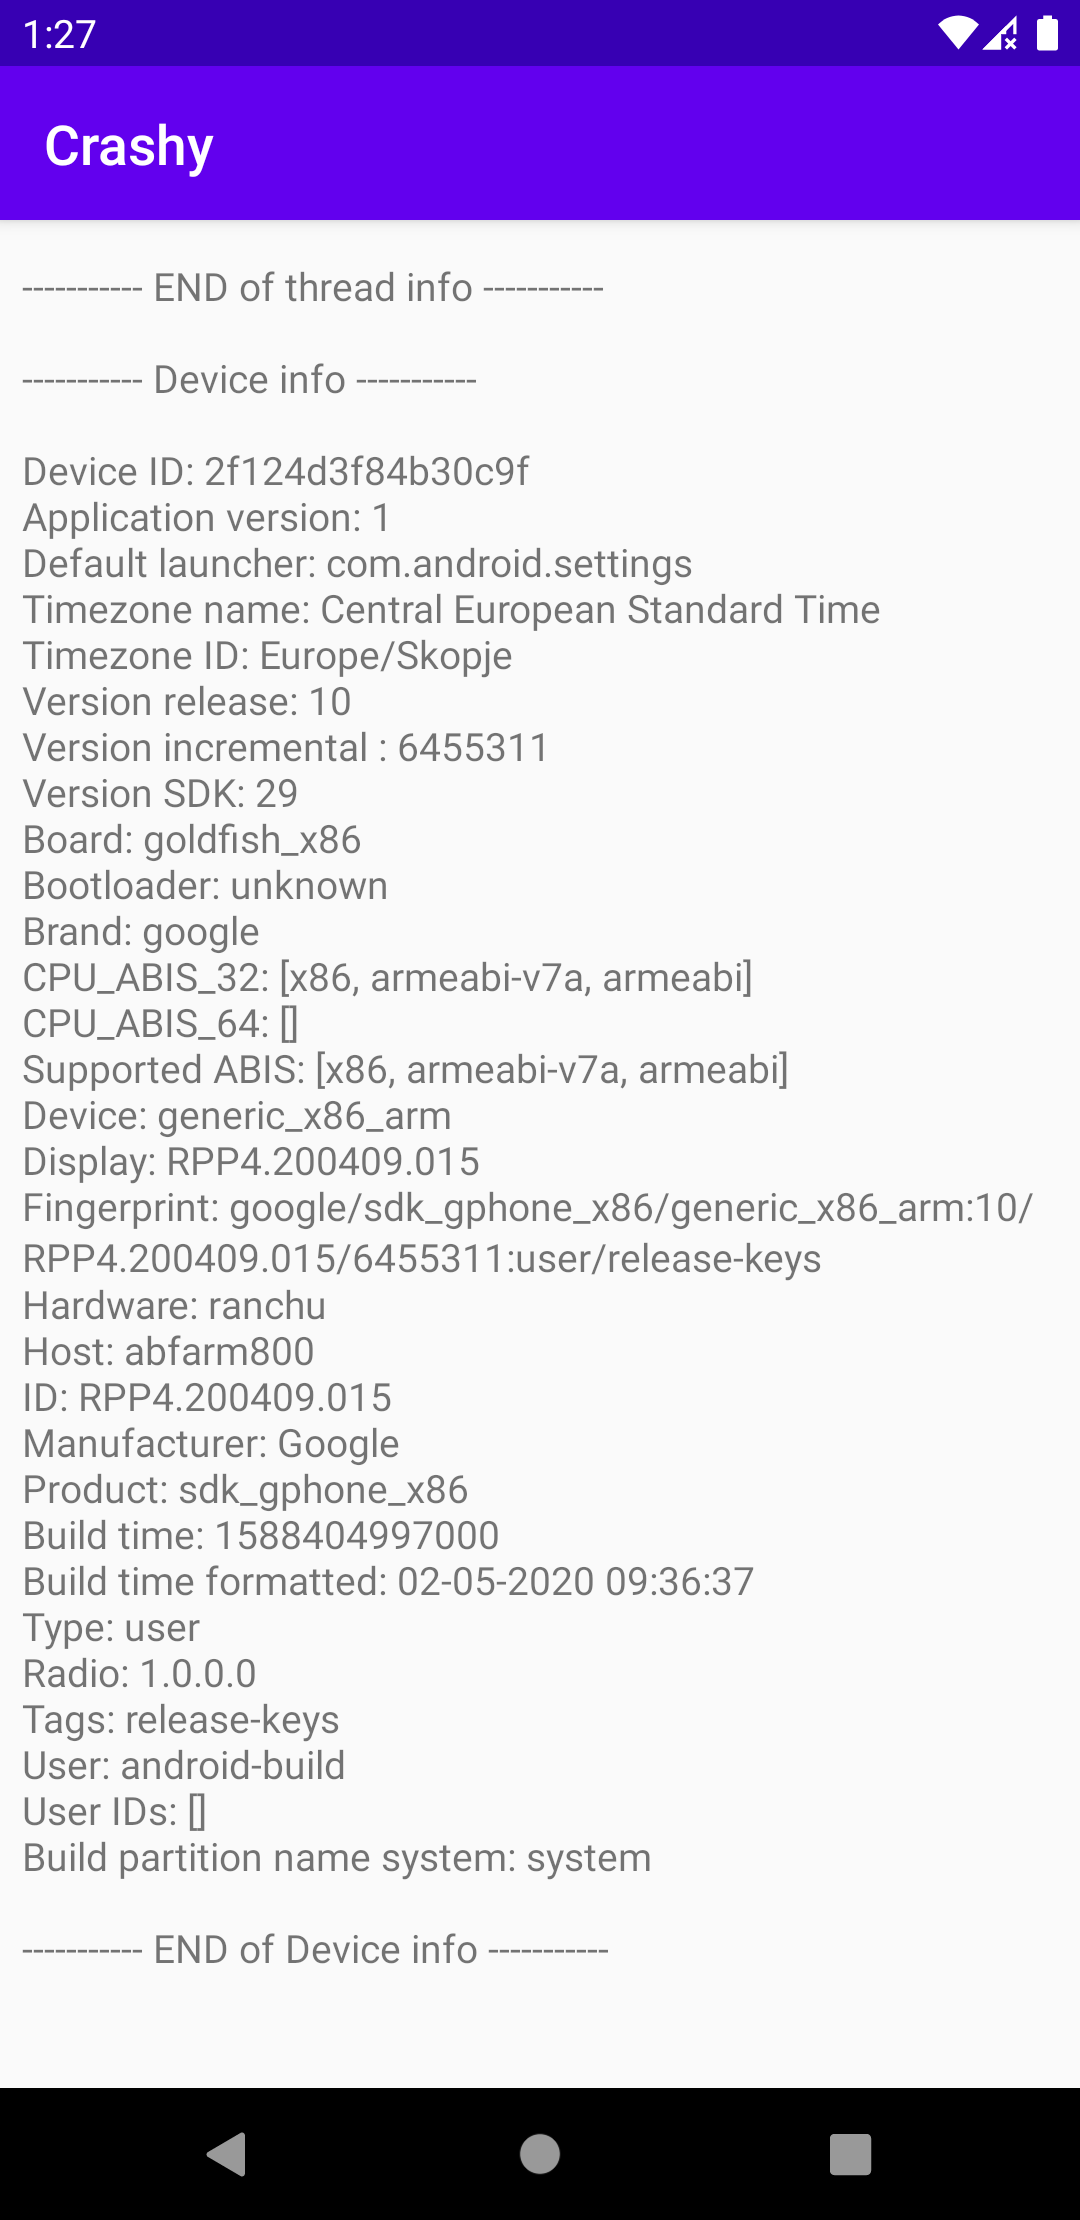
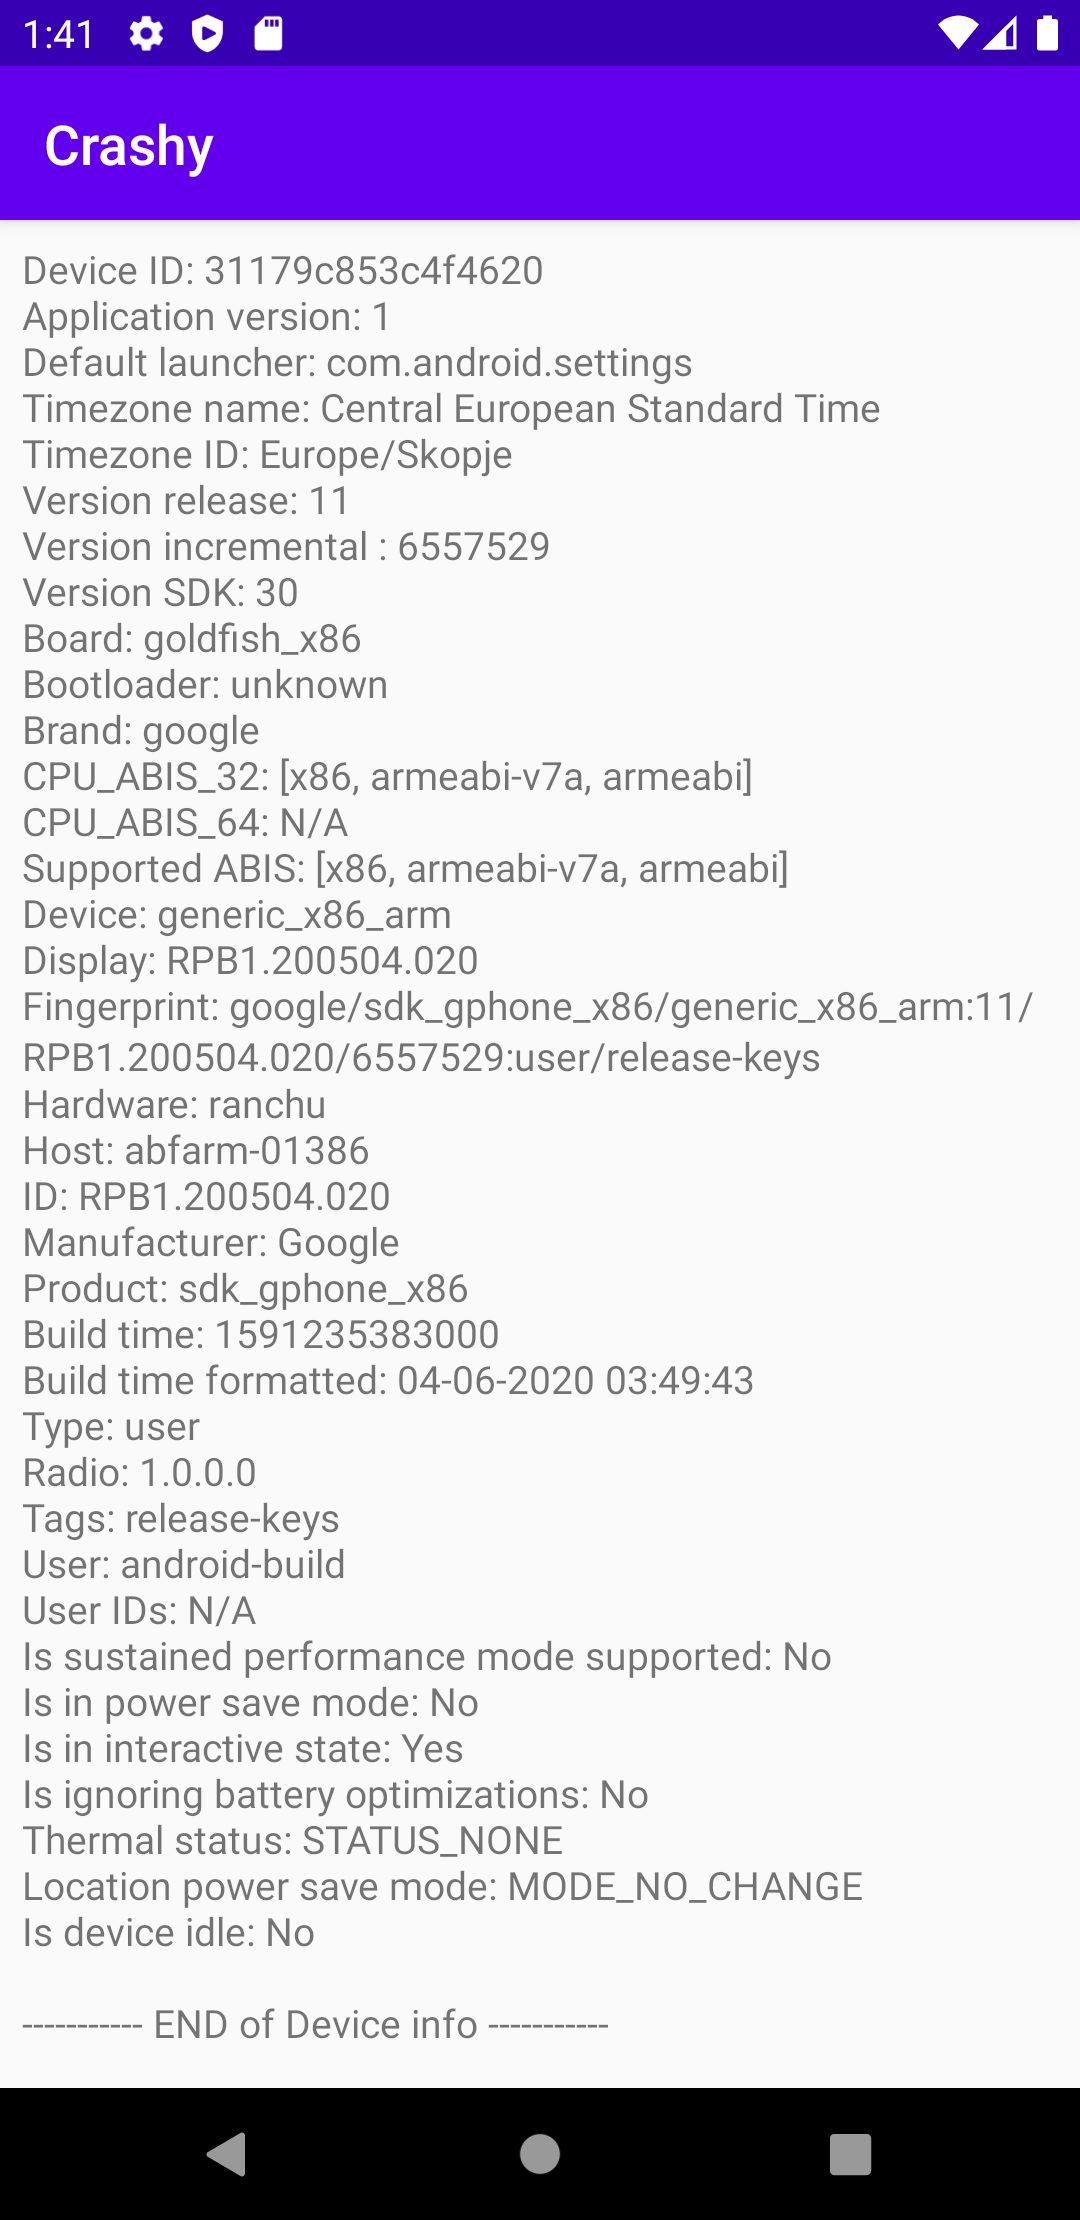
feature: added more information about thermals, exit reasons etc...

diff --git a/crashyreporter/src/main/java/com/crazylegend/crashyreporter/extensions/ExtensionFunctions.kt b/crashyreporter/src/main/java/com/crazylegend/crashyreporter/extensions/ExtensionFunctions.kt
@@ -1,0 +1,165 @@
+package com.crazylegend.crashyreporter.extensions
+
+import android.app.ActivityManager
+import android.app.ActivityManager.RunningAppProcessInfo.*
+import android.app.ApplicationExitInfo.*
+import android.content.Context
+import android.os.Build
+import android.os.PowerManager
+import android.os.PowerManager.*
+import androidx.annotation.RequiresApi
+import com.crazylegend.crashyreporter.CrashyReporter
+import java.util.*
+
+
+/**
+ * Created by crazy on 6/21/20 to long live and prosper !
+ */
+
+internal data class AppDeathInfo(
+        val description: String?,
+        val importance: String,
+        val reason: String,
+        val timestamp: String
+)
+
+private inline val Context.powerManager
+    get() = getSystemService(Context.POWER_SERVICE) as PowerManager?
+
+private inline val Context.activityManager: ActivityManager
+    get() = getSystemService(Context.ACTIVITY_SERVICE) as ActivityManager
+
+internal val Context.isSustainedPerformanceModeSupported
+    get() = if (Build.VERSION.SDK_INT >= Build.VERSION_CODES.N) {
+        powerManager?.isSustainedPerformanceModeSupported.booleanAsYesOrNo()
+    } else {
+        notAvailableString
+    }
+
+internal val Context.isInPowerSaveMode
+    get() = powerManager?.isPowerSaveMode.booleanAsYesOrNo()
+
+internal val Context.isInInteractiveState
+    get() = powerManager?.isInteractive.booleanAsYesOrNo()
+
+internal val Context.isIgnoringBatteryOptimization
+    get() = if (Build.VERSION.SDK_INT >= Build.VERSION_CODES.M) {
+        powerManager?.isIgnoringBatteryOptimizations(packageName).booleanAsYesOrNo()
+    } else {
+        notAvailableString
+    }
+
+private fun Boolean?.booleanAsYesOrNo() =
+        when (this) {
+            true -> "Yes"
+            false -> "No"
+            null -> notAvailableString
+        }
+
+
+/**
+ *  THERMAL_STATUS_NONE if device in not under thermal throttling. Value is
+ *  THERMAL_STATUS_NONE, THERMAL_STATUS_LIGHT,
+ *  THERMAL_STATUS_MODERATE, THERMAL_STATUS_SEVERE, THERMAL_STATUS_CRITICAL, THERMAL_STATUS_EMERGENCY, or THERMAL_STATUS_SHUTDOWN
+ */
+internal val Context.getThermalStatus: String
+    @RequiresApi(Build.VERSION_CODES.Q)
+    get() {
+        return when (powerManager?.currentThermalStatus) {
+            THERMAL_STATUS_NONE -> "STATUS_NONE"
+            THERMAL_STATUS_LIGHT -> "STATUS_LIGHT"
+            THERMAL_STATUS_MODERATE -> "STATUS_MODERATE"
+            THERMAL_STATUS_SEVERE -> "STATUS_SEVERE"
+            THERMAL_STATUS_CRITICAL -> "STATUS_CRITICAL"
+            THERMAL_STATUS_EMERGENCY -> "STATUS_EMERGENCY"
+            THERMAL_STATUS_SHUTDOWN -> "STATUS_SHUTDOWN"
+
+            else -> notAvailableString
+        }
+    }
+
+/**
+ * 	Value is LOCATION_MODE_NO_CHANGE, LOCATION_MODE_GPS_DISABLED_WHEN_SCREEN_OFF,
+ * 	LOCATION_MODE_ALL_DISABLED_WHEN_SCREEN_OFF,
+ * 	LOCATION_MODE_FOREGROUND_ONLY, or LOCATION_MODE_THROTTLE_REQUESTS_WHEN_SCREEN_OFF
+ */
+internal val Context.locationPowerSaveMode: String
+    get() {
+
+        return if (Build.VERSION.SDK_INT >= Build.VERSION_CODES.P) {
+            when (powerManager?.locationPowerSaveMode) {
+                LOCATION_MODE_NO_CHANGE -> "MODE_NO_CHANGE"
+                LOCATION_MODE_GPS_DISABLED_WHEN_SCREEN_OFF -> "MODE_GPS_DISABLED_WHEN_SCREEN_OFF"
+                LOCATION_MODE_ALL_DISABLED_WHEN_SCREEN_OFF -> "MODE_ALL_DISABLED_WHEN_SCREEN_OFF"
+                LOCATION_MODE_FOREGROUND_ONLY -> "MODE_FOREGROUND_ONLY"
+                LOCATION_MODE_THROTTLE_REQUESTS_WHEN_SCREEN_OFF -> "MODE_THROTTLE_REQUESTS_WHEN_SCREEN_OFF"
+                else -> notAvailableString
+            }
+        } else {
+            notAvailableString
+        }
+    }
+
+internal val Context.isDeviceIdle
+    get() = if (Build.VERSION.SDK_INT >= Build.VERSION_CODES.M) {
+        powerManager?.isDeviceIdleMode.booleanAsYesOrNo()
+    } else {
+        notAvailableString
+    }
+
+
+private fun buildExitReason(reason: Int) = when (reason) {
+    REASON_ANR -> "ANR"
+    REASON_CRASH -> "CRASH"
+    REASON_CRASH_NATIVE -> "CRASH_NATIVE"
+    REASON_DEPENDENCY_DIED -> "DEPENDENCY_DIED"
+    REASON_EXCESSIVE_RESOURCE_USAGE -> "EXCESSIVE_RESOURCE_USAGE"
+    REASON_EXIT_SELF -> "EXIT_SELF"
+    REASON_INITIALIZATION_FAILURE -> "INITIALIZATION_FAILURE"
+    REASON_LOW_MEMORY -> "LOW_MEMORY"
+    REASON_OTHER -> "OTHER"
+    REASON_PERMISSION_CHANGE -> "PERMISSION_CHANGE"
+    REASON_SIGNALED -> "SIGNALED"
+    REASON_USER_REQUESTED -> "USER_REQUESTED"
+    REASON_USER_STOPPED -> "USER_STOPPED"
+    android.app.ApplicationExitInfo.REASON_UNKNOWN -> "UNKNOWN"
+    else -> notAvailableString
+}
+
+internal fun Context.getExitReasons(pid: Int = 0, maxRes: Int = 1) =
+        if (Build.VERSION.SDK_INT >= Build.VERSION_CODES.R) {
+            activityManager.getHistoricalProcessExitReasons(packageName, pid, maxRes).mapIndexed { index, it ->
+                "~~~~~~~~~~~ Exit reason #${index+1} ~~~~~~~~~~~\n" +
+                        "\n" +
+                        "Description: ${it.description}\n" +
+                        "Importance: ${buildImportance(it.importance)}\n" +
+                        "Importance: ${buildExitReason(it.reason)}\n" +
+                        "Timestamp: ${CrashyReporter.dateFormat.format(Date(it.timestamp))}\n" +
+                        "\n" +
+                        "~~~~~~~~~~~ END of exit reason #${index+1} ~~~~~~~~~~~" +
+                        "\n" +
+                        "\n"
+            }
+        } else {
+            emptyList()
+        }
+
+fun buildImportance(importance: Int): String {
+    return when(importance){
+        IMPORTANCE_FOREGROUND-> "FOREGROUND"
+        IMPORTANCE_FOREGROUND_SERVICE-> "FOREGROUND_SERVICE"
+        IMPORTANCE_TOP_SLEEPING-> "TOP_SLEEPING"
+        IMPORTANCE_VISIBLE-> "VISIBLE"
+        IMPORTANCE_PERCEPTIBLE-> "PERCEPTIBLE"
+        IMPORTANCE_CANT_SAVE_STATE-> "CANT_SAVE_STATE"
+        IMPORTANCE_SERVICE-> "SERVICE"
+        IMPORTANCE_CACHED-> "CACHED"
+        IMPORTANCE_GONE -> "GONE"
+        else-> notAvailableString
+    }
+}
+
+internal const val notAvailableString = "N/A"
+
+internal fun <T> Collection<T>?.notAvailableIfNullNewLine(): String = if (this.isNullOrEmpty()) "N/A" else "\n${this}"
+internal fun <T> Collection<T>?.notAvailableIfNull(): String = if (this.isNullOrEmpty()) "N/A" else "$this"

diff --git a/crashyreporter/src/main/java/com/crazylegend/crashyreporter/utils/DeviceUtils.kt b/crashyreporter/src/main/java/com/crazylegend/crashyreporter/utils/DeviceUtils.kt
@@ -10,6 +10,11 @@ import android.os.Build
 import android.provider.Settings
 import androidx.core.app.ActivityCompat
 import com.crazylegend.crashyreporter.CrashyReporter
+import com.crazylegend.crashyreporter.extensions.*
+import com.crazylegend.crashyreporter.extensions.isIgnoringBatteryOptimization
+import com.crazylegend.crashyreporter.extensions.isInInteractiveState
+import com.crazylegend.crashyreporter.extensions.isInPowerSaveMode
+import com.crazylegend.crashyreporter.extensions.isSustainedPerformanceModeSupported
 import java.util.*
 
 
@@ -18,7 +23,7 @@ import java.util.*
  */
 internal object DeviceUtils {
 
-    internal data class FingerprintPartition(val name: String, val fingerprint: String, val buildTimeMillis: Long)
+
 
     fun getDeviceDetails(context: Context) =
             "----------- Device info -----------\n" +
@@ -34,9 +39,9 @@ internal object DeviceUtils {
                     "Board: ${Build.BOARD}\n" +
                     "Bootloader: ${Build.BOOTLOADER}\n" +
                     "Brand: ${Build.BRAND}\n" +
-                    "CPU_ABIS_32: ${Build.SUPPORTED_32_BIT_ABIS.map { it }}\n" +
-                    "CPU_ABIS_64: ${Build.SUPPORTED_64_BIT_ABIS.map { it }}\n" +
-                    "Supported ABIS: ${Build.SUPPORTED_ABIS.map { it }}\n" +
+                    "CPU_ABIS_32: ${Build.SUPPORTED_32_BIT_ABIS.map { it }.notAvailableIfNull()}\n" +
+                    "CPU_ABIS_64: ${Build.SUPPORTED_64_BIT_ABIS.map { it }.notAvailableIfNull()}\n" +
+                    "Supported ABIS: ${Build.SUPPORTED_ABIS.map { it }.notAvailableIfNull()}\n" +
                     "Device: ${Build.DEVICE}\n" +
                     "Display: ${Build.DISPLAY}\n" +
                     "Fingerprint: ${Build.FINGERPRINT}\n" +
@@ -51,12 +56,21 @@ internal object DeviceUtils {
                     "Radio: ${getRadioVersion()}\n" +
                     "Tags: ${Build.TAGS}\n" +
                     "User: ${Build.USER}\n" +
-                    "User IDs: ${getUserPlayIDs(context)}\n" +
-                    "Build partition name system: ${Build.Partition.PARTITION_NAME_SYSTEM}\n" +
+                    "User IDs: ${getUserPlayIDs(context).notAvailableIfNull()}\n" +
+                    "Is sustained performance mode supported: ${context.isSustainedPerformanceModeSupported}\n" +
+                    "Is in power save mode: ${context.isInPowerSaveMode}\n" +
+                    "Is in interactive state: ${context.isInInteractiveState}\n" +
+                    "Is ignoring battery optimizations: ${context.isIgnoringBatteryOptimization}\n" +
+                    "Thermal status: ${context.getThermalStatus}\n" +
+                    "Location power save mode: ${context.locationPowerSaveMode}\n" +
+                    "Is device idle: ${context.isDeviceIdle}\n" +
                     "\n" +
                     "----------- END of Device info -----------" +
                     "\n" +
-                    "\n"
+                    "\n" +
+                    "*********** Exit reasons ***********\n" +
+                    "${context.getExitReasons(maxRes = 3).notAvailableIfNullNewLine().replace("[", "").replace("]", "").replace(",", "\n")}\n" +
+                    "*********** END of exit reasons ***********"
 
 
 

diff --git a/crashyreporter/src/main/java/com/crazylegend/crashyreporter/CrashyReporter.kt b/crashyreporter/src/main/java/com/crazylegend/crashyreporter/CrashyReporter.kt
@@ -1,6 +1,12 @@
 package com.crazylegend.crashyreporter
 
 import android.content.Context
+import android.util.Log
+import com.crazylegend.crashyreporter.extensions.*
+import com.crazylegend.crashyreporter.extensions.getExitReasons
+import com.crazylegend.crashyreporter.extensions.getThermalStatus
+import com.crazylegend.crashyreporter.extensions.isInPowerSaveMode
+import com.crazylegend.crashyreporter.extensions.isSustainedPerformanceModeSupported
 import com.crazylegend.crashyreporter.handlers.CrashyExceptionHandler
 import com.crazylegend.crashyreporter.handlers.CrashyNotInitializedException
 import com.crazylegend.crashyreporter.utils.DeviceUtils
@@ -60,6 +66,17 @@ object CrashyReporter {
      */
     fun initialize(context: Context) {
         applicationContext = context
+
+        Log.d("THERMAL", context.getThermalStatus.toString())
+        context.getExitReasons(0, Int.MAX_VALUE).forEach {
+            Log.d("EXIT REASON", it.toString())
+        }
+        Log.d("SUSTAINED PERFORMANCE", context.isSustainedPerformanceModeSupported.toString())
+        Log.d("isInPowerSaveMode", context.isInPowerSaveMode.toString())
+        Log.d("isInInteractiveState", context.isInInteractiveState.toString())
+        Log.d("IgnoringBatteryOptimiz", context.isIgnoringBatteryOptimization.toString())
+        Log.d("locationPowerSaveMode", context.locationPowerSaveMode.toString())
+        Log.d("isDeviceIdle", context.isDeviceIdle.toString())
     }
 
 

diff --git a/crashyreporter/src/main/java/com/crazylegend/crashyreporter/utils/ThreadUtil.kt b/crashyreporter/src/main/java/com/crazylegend/crashyreporter/utils/ThreadUtil.kt
@@ -7,7 +7,7 @@ package com.crazylegend.crashyreporter.utils
 internal object ThreadUtil {
 
     fun getThreadInfo(thread: Thread) =
-            "----------- Thread info -----------\n" +
+            "``````````` Thread info ```````````\n" +
                     "\n" +
                     "Name: ${thread.name}\n" +
                     "ID: ${thread.id}\n" +
@@ -17,7 +17,7 @@ internal object ThreadUtil {
                     "Thread group parent: ${thread.threadGroup?.parent?.name}\n" +
                     "Thread group active count: ${thread.threadGroup?.activeCount()}\n" +
                     "\n" +
-                    "----------- END of thread info -----------\n"
+                    "``````````` END of thread info ```````````\n"
 
 
     fun buildStackTraceString(stackTrace: String) =
